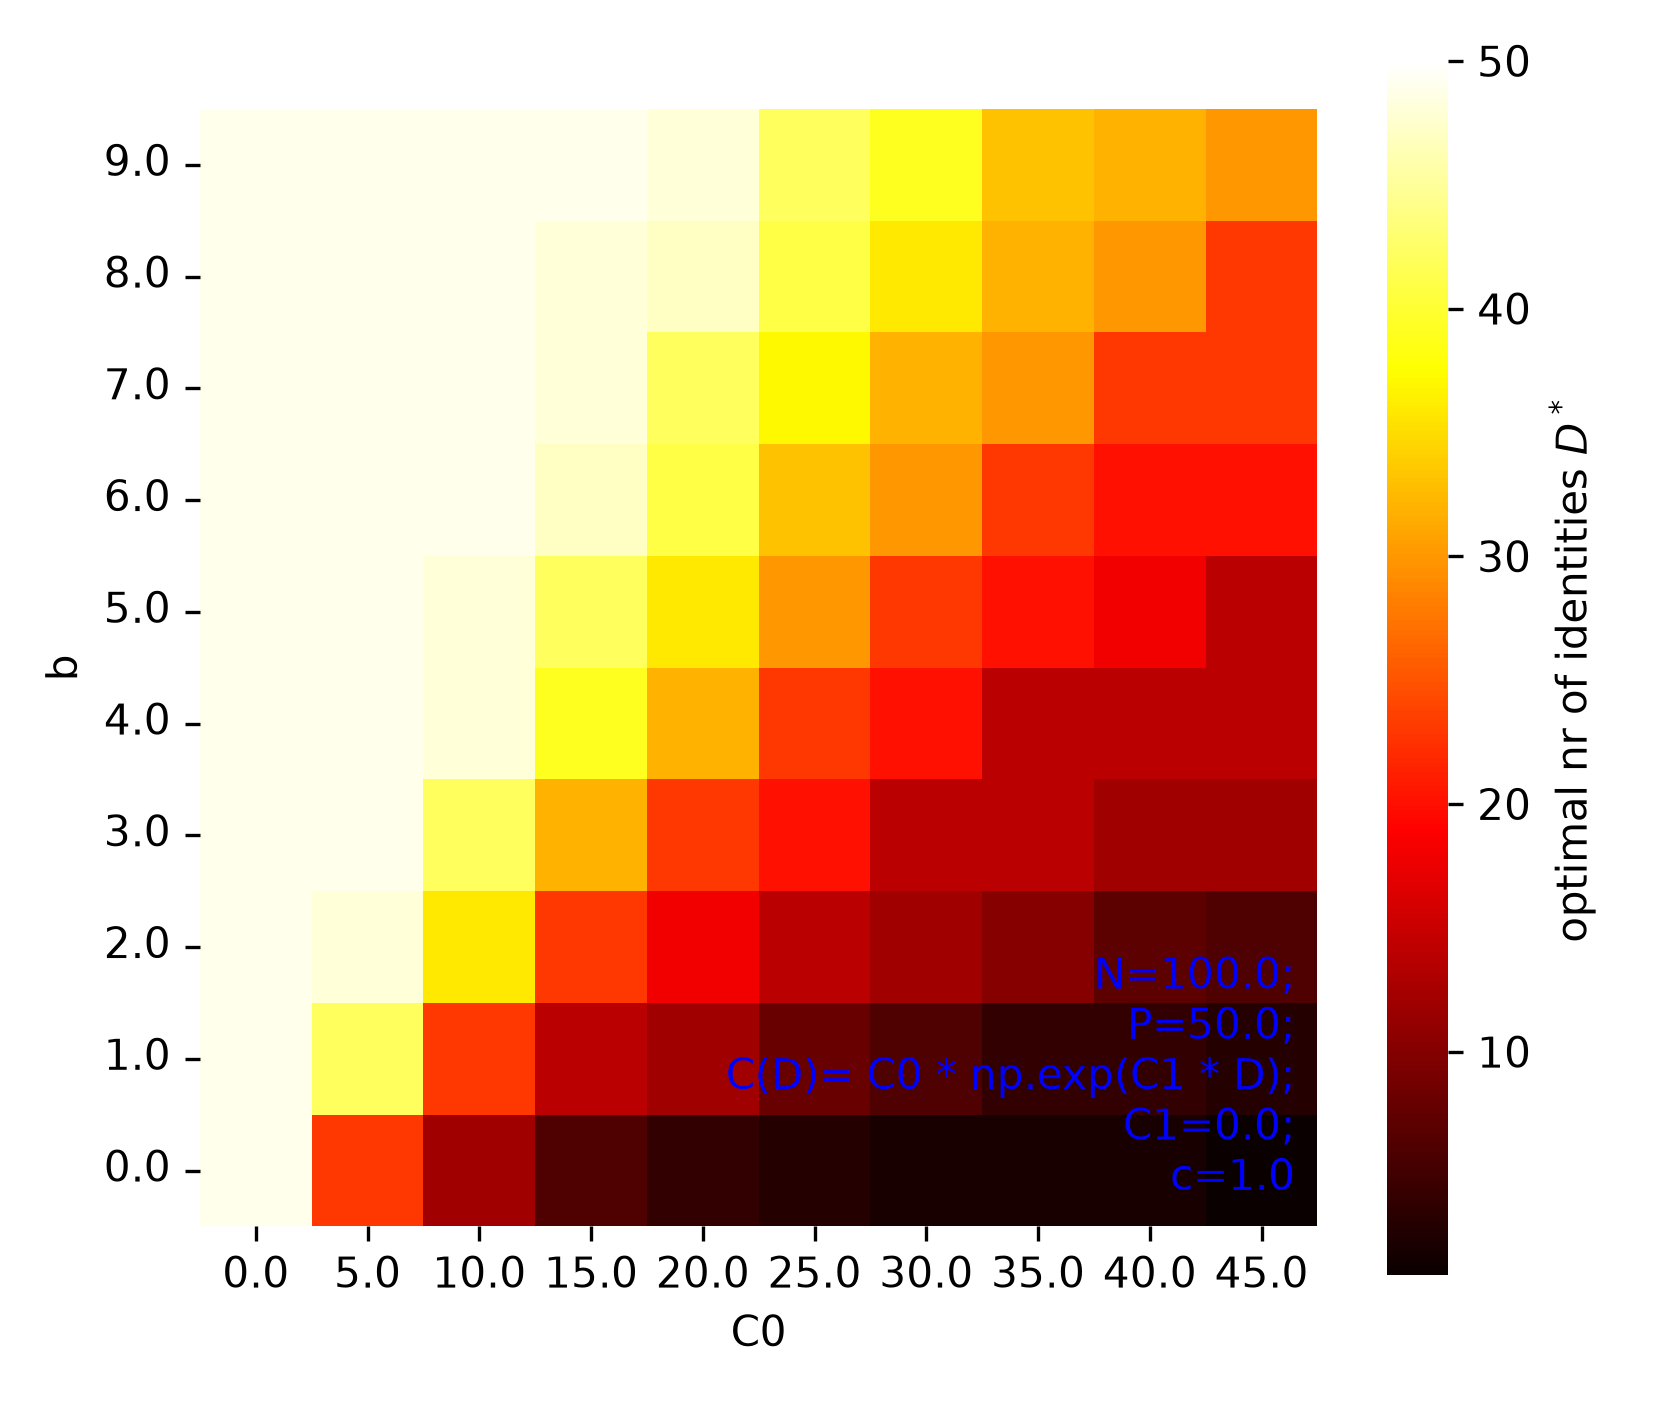
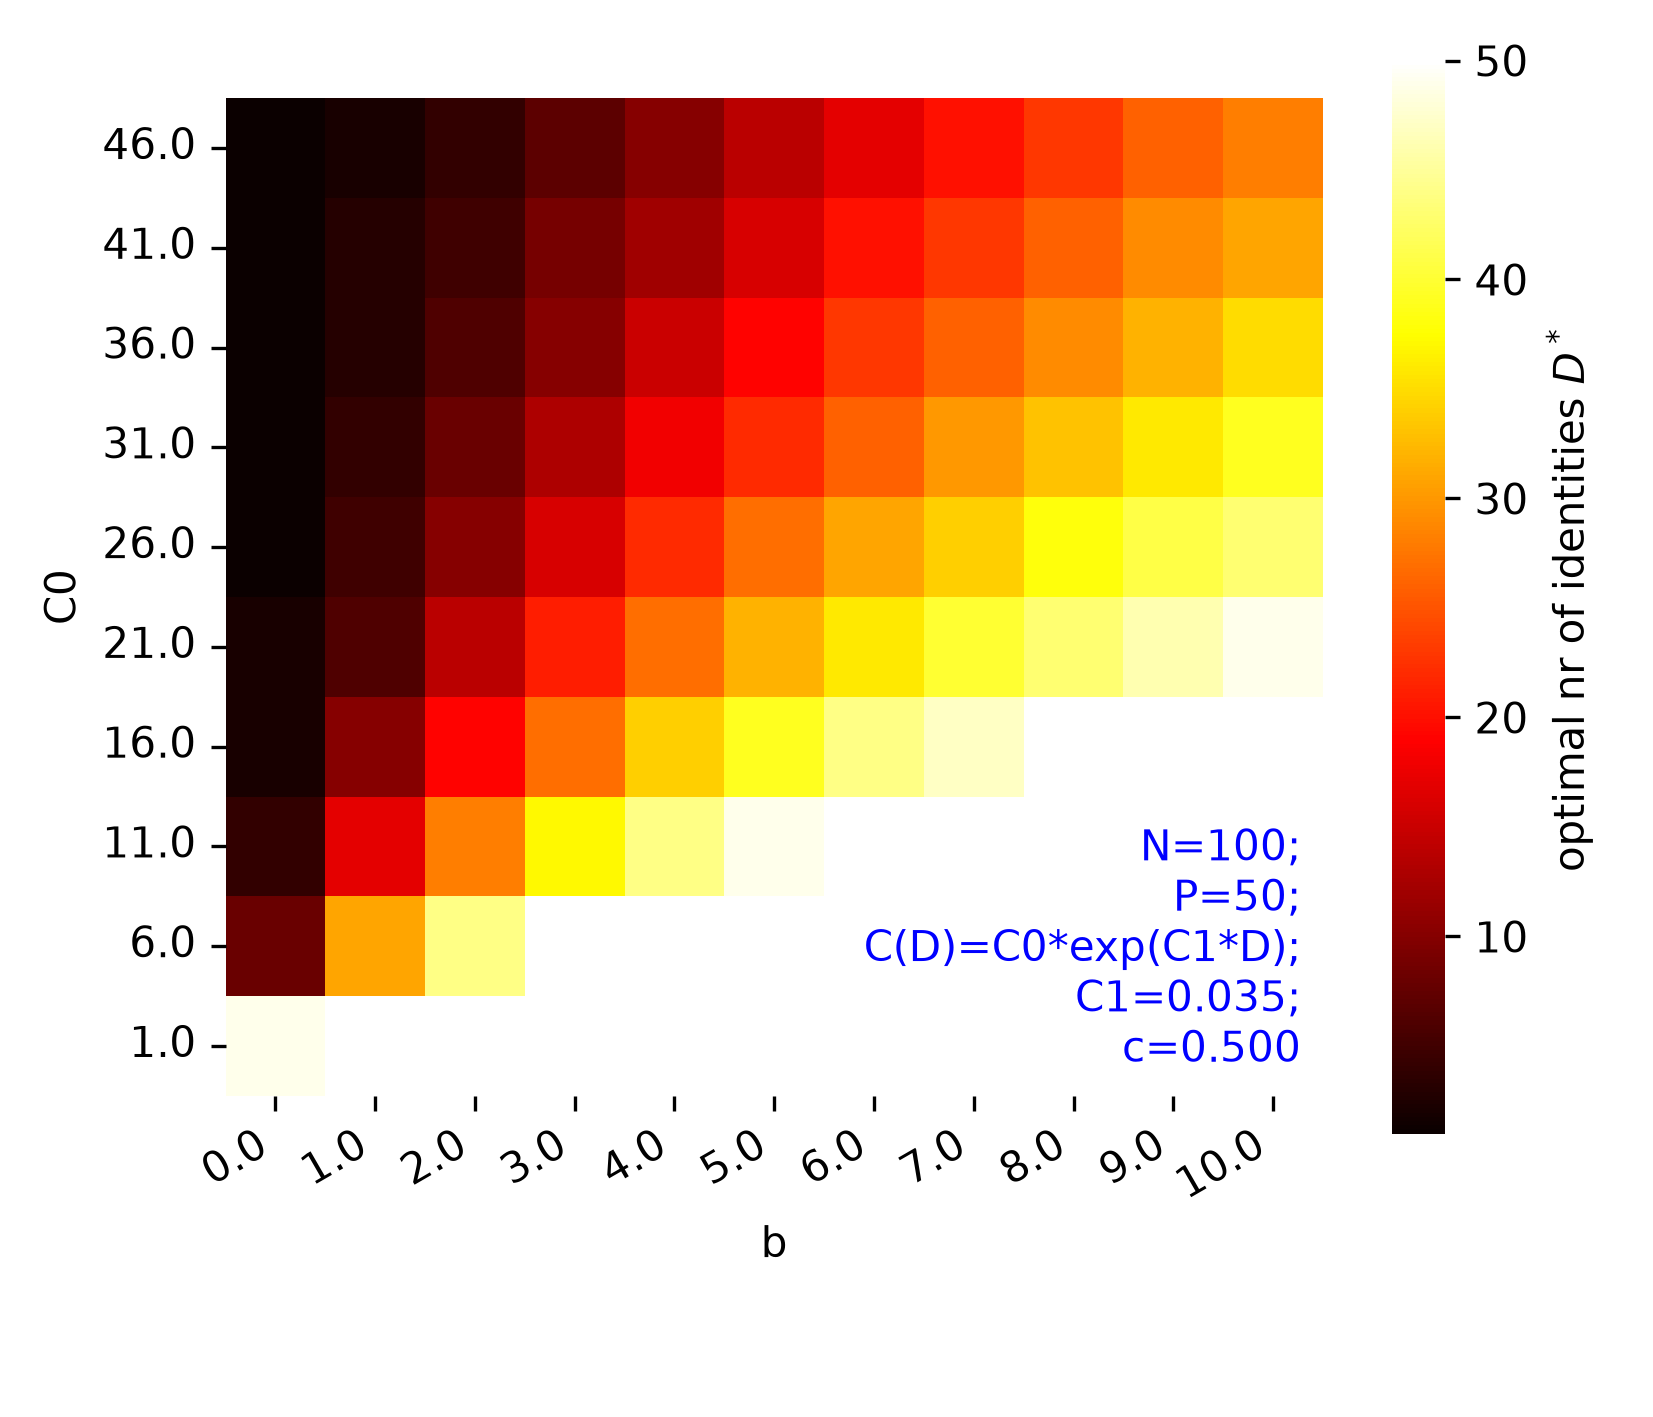
speeded up the model

diff --git a/modelfast.py b/modelfast.py
@@ -1,0 +1,250 @@
+#%%
+import os
+import numpy as np
+import pandas as pd
+import matplotlib.pyplot as plt
+import seaborn as sns
+import matplotlib as mpl
+
+#%%
+# ------------------------------------
+# -----   Simulation (vectorized) -----
+# ------------------------------------
+def make_solutions(seed, P, N):
+    """P x N array of 0/1; every row has exactly N/2 ones."""
+    assert N % 2 == 0
+    rng = np.random.default_rng(seed)
+    base = np.tile(np.repeat([0, 1], N // 2), (P, 1))
+    return rng.permuted(base, axis=1)
+
+def errors_for_all_D(seed, P, N):
+    """
+    Returns array e of length P, where e[D-1] = mean errors per agent, summed over
+    the P-D unsolved problems, when the first D problems serve as identities.
+    Independent of b, c and the storage cost, so it only needs simulating once per seed.
+    """
+    S = make_solutions(seed, P, N).astype(float)
+    # M[p, j] = number of agents on whom problem p and identity j disagree
+    M = N - 2 * (S @ S.T)
+    # best[p, d-1] = fewest errors on problem p using the best of identities 0..d-1
+    best = np.minimum.accumulate(M, axis=1)
+    # only problems p >= D count (problem p < D is an identity, solved perfectly)
+    rows = np.arange(P)[:, None]
+    cols = np.arange(P)[None, :]
+    mask = rows > cols                    # column index d-1 = D-1  ->  p >= D  <=>  p > D-1
+    return (best * mask).sum(axis=0) / N
+
+def sim_errors(n_runs, Ds, P, N):
+    """(n_runs, len(Ds)) array of mean errors per agent."""
+    Ds = np.asarray(Ds)
+    all_e = np.stack([errors_for_all_D(s, P, N) for s in range(n_runs)])
+    return all_e[:, Ds - 1]
+
+def run_grid(grid_b, grid_c, Ds, P, N, n_runs, costFunc, C0, C1, C_name):
+    """Utility = b*P - (b+c)*errors - C(D); the b,c grid is pure broadcasting."""
+    Ds = np.asarray(Ds)
+    err = sim_errors(n_runs, Ds, P, N)                      # runs x D
+    bb, cc, DD = np.meshgrid(grid_b, grid_c, Ds, indexing="ij")
+    e_mean = err.mean(0)[None, None, :]
+    e_std = err.std(0)[None, None, :]
+    u_mean = bb * P - (bb + cc) * e_mean - costFunc(DD, C0=C0, C1=C1)
+    u_std = (bb + cc) * e_std                               # std across runs
+    return pd.DataFrame({
+        "N": N, "P": P, "D": DD.ravel(), "c": cc.ravel(), "b": bb.ravel(),
+        "C0": C0, "C1": C1, "C(D)": C_name,
+        "u_mean": u_mean.ravel(), "u_std": u_std.ravel(),
+    })
+
+def run_grid_C0(grid_b, c, grid_C0, Ds, P, N, n_runs, costFunc, C1, C_name):
+    """Like run_grid, but the second axis is the cost parameter C1 and c is fixed."""
+    Ds = np.asarray(Ds)
+    err = sim_errors(n_runs, Ds, P, N)                       # runs x D
+    bb, c0, DD = np.meshgrid(grid_b, grid_C0, Ds, indexing="ij")
+    e_mean = err.mean(0)[None, None, :]
+    e_std = err.std(0)[None, None, :]
+    u_mean = bb * P - (bb + c) * e_mean - costFunc(DD, C0=c0, C1=C1)
+    u_std = (bb + c) * e_std
+    return pd.DataFrame({
+        "N": N, "P": P, "D": DD.ravel(), "c": c, "b": bb.ravel(),
+        "C0": c0.ravel(), "C1": C1, "C(D)": C_name,
+        "u_mean": u_mean.ravel(), "u_std": u_std.ravel(),
+    })
+
+def get_Dstar(df, params):
+    """Optimal D for every combination of `params` (any number). Ties -> smallest D."""
+    df = df.sort_values("D")
+    idx = df.groupby(params)["u_mean"].idxmax()
+    other = [p for p in ["N", "P", "C(D)", "C0", "C1", "b", "c"] if p not in params]
+    out = df.loc[idx, params + other + ["D", "u_mean"]]
+    return out.rename(columns={"D": "Dstar", "u_mean": "maxU"}).reset_index(drop=True)
+
+#%%
+# ------------------------------------
+# -----   Reference check (slow)  -----
+# ------------------------------------
+def play_one_round_ref(seed, D, P, N, b, c, costFunc, C0, C1):
+    """Your loop version (with the all-P fix), using the same solutions as the fast code."""
+    solutions = make_solutions(seed, P, N)
+    identities = solutions[:D]
+    best_ids = [np.argmin(np.abs(identities - solutions[p]).sum(axis=1)) for p in range(P)]
+    util = np.array([(solutions[p] == identities[best_ids[p]]) * b
+                     - (solutions[p] != identities[best_ids[p]]) * c for p in range(P)])
+    return util.sum(axis=0) - costFunc(D, C0=C0, C1=C1)
+
+def check(P=20, N=40, b=1.3, c=0.7, C0=1.0, seed=3):
+    costFunc = lambda D, C0, C1: C0 * D
+    for D in [1, 5, 20]:
+        slow = play_one_round_ref(seed, D, P, N, b, c, costFunc, C0, np.nan).mean()
+        e = errors_for_all_D(seed, P, N)[D - 1]
+        fast = b * P - (b + c) * e - costFunc(D, C0, np.nan)
+        assert np.isclose(slow, fast), (D, slow, fast)
+    print("fast and reference versions agree")
+
+#%%
+# ------------------------------------
+# -----   Plotting  -------------------
+# ------------------------------------
+ALL_PARAMS = ["N", "P", "C(D)", "C0", "C1", "b", "c"]
+
+def _select(df, p):
+    mask = np.ones(len(df), dtype=bool)
+    for k, v in p.items():
+        mask &= np.isclose(df[k].astype(float), v)
+    return df[mask]
+
+def _fmt(k, v):
+    return f"{k}={v}" if isinstance(v, str) else (f"{k}={v}" if not np.isnan(v) and int(v)==v else  f"{k}={v:.3f}")
+
+def plot_UoverD(df, df_Dstar, params, cmap="viridis", inset_loc=(0.60, 0.55, 0.36, 0.38)):
+    """
+    inset_loc: (x0, y0, width, height) in axes fractions. Move it if it covers curves,
+               e.g. (0.12, 0.08, 0.36, 0.38) for the lower left.
+    """
+    fig, ax = plt.subplots(1, 1, figsize=(16/2.54, 9/2.54))
+    other_params = [q for q in ALL_PARAMS if q not in params[0]]
+
+    # which parameter varies across the curves? (that one gets the colormap and the inset x-axis)
+    varying = [k for k in params[0] if len({p[k] for p in params}) > 1]
+    fixed = [k for k in params[0] if k not in varying]
+    key = varying[0]
+    vals = np.array([p[key] for p in params], dtype=float)
+
+    norm = mpl.colors.Normalize(vals.min(), vals.max())
+    cm = mpl.colormaps[cmap]
+    color_of = lambda v: cm(0.05 + 0.9 * norm(v))
+
+    # --- main plot ---
+    dstar = []
+    for p in params:
+        curr_df = _select(df, p)
+        assert len(curr_df) > 0 and curr_df["D"].is_unique
+        curr_opt = _select(df_Dstar, p)
+        col = color_of(p[key])
+        ax.plot(curr_df["D"], curr_df["u_mean"], color=col, lw=1, alpha=0.5)
+        ax.scatter(curr_opt["Dstar"], curr_opt["maxU"], marker="s", s=22,
+                   color=col, edgecolor="k", linewidth=0.6, zorder=3)
+        dstar.append(curr_opt["Dstar"].iloc[0])
+    dstar = np.array(dstar)
+
+    sm = mpl.cm.ScalarMappable(norm=norm,
+                               cmap=mpl.colors.ListedColormap(cm(np.linspace(0.05, 0.95, 256))))
+    fig.colorbar(sm, ax=ax, label=key, pad=0.02)
+
+    ax.set_xlabel("D")
+    ax.set_ylabel("mean utility")
+    ax.spines[["top", "right"]].set_visible(False)
+    ax.grid(alpha=0.25, lw=0.5)
+
+    first = curr_df.iloc[0]
+    txt = [f"{k}={params[0][k]:.1f}" for k in fixed] + [_fmt(k, first[k]) for k in other_params]
+    ax.text(0.02, 0.02, ";\n".join(txt), va="bottom", ha="left",
+            transform=ax.transAxes, color="0.3", fontsize=7)
+
+    # --- inset: D* over the varying parameter ---
+    axin = ax.inset_axes(list(inset_loc))
+    ax.add_patch(mpl.patches.FancyBboxPatch((inset_loc[0]-0.07, inset_loc[1]-0.12), inset_loc[2]+0.09, inset_loc[3]+0.17, boxstyle="round,pad=0,rounding_size=0.02", transform=ax.transAxes, fc="gainsboro", ec="0.7", alpha=0.7, zorder=2.5))
+    order = np.argsort(vals)
+    axin.plot(vals[order], dstar[order], color="0.6", lw=0.8, zorder=1)
+    axin.scatter(vals, dstar, c=[color_of(v) for v in vals], s=14,
+                 edgecolor="k", linewidth=0.4, zorder=2)
+    axin.set_xlabel(key, fontsize=6, labelpad=1)
+    axin.set_ylabel(r"$D^*$", fontsize=6, labelpad=1)
+    axin.tick_params(labelsize=6, length=2, pad=1)
+    axin.set_facecolor((1, 1, 1, 0.85))
+    axin.grid(alpha=0.25, lw=0.4)
+    axin.spines[["top", "right"]].set_visible(False)
+    return fig, ax
+
+def plot_heat(df, df_Dstar, params):
+    fig, ax = plt.subplots(1, 1, figsize=(14/2.54, 12/2.54))
+    other_params = [q for q in ALL_PARAMS if q not in params]
+    first = df.iloc[0]
+    sns.heatmap(df_Dstar.pivot_table(index=params[1], columns=params[0], values="Dstar"),
+                vmin=1, vmax=df["D"].max(), cmap="hot", cbar=True, ax=ax,
+                cbar_kws=dict(label=r"optimal nr of identities $D^*$"))
+    ax.set_xticklabels([f"{float(t.get_text()):.1f}" for t in ax.get_xticklabels()])
+    ax.set_yticklabels([f"{float(t.get_text()):.1f}" for t in ax.get_yticklabels()], rotation=0)
+    ax.invert_yaxis()
+    ax.text(0.98, 0.02, ";\n".join(_fmt(k, first[k]) for k in other_params),
+            va="bottom", ha="right", transform=ax.transAxes, color="blue")
+    ax.set_aspect("equal")
+    return fig, ax 
+#%%
+# ------------------------------------
+# -----   Run  ------------------------
+# ------------------------------------
+check()
+
+P, N = 50, 100
+C0, C1 = 1, np.nan
+costFunc = lambda D, C0, C1: C0 * D
+C_name = "C0 * D"
+
+grid = np.round(np.arange(0, 2.01, 0.1), 10)   # rounding keeps float comparisons safe
+Ds = np.arange(1, P + 1)                       # includes D = P
+df_linear = run_grid(grid, grid, Ds, P, N, n_runs=1000,
+                        costFunc=costFunc, C0=C0, C1=C1, C_name=C_name)
+df_Dstar_linear = get_Dstar(df_linear, ["b", "c"])
+
+#%%
+os.makedirs("figs", exist_ok=True)
+c = 1.0
+plot_UoverD(df_linear, df_Dstar_linear, [dict(b=b, c=c) for b in grid], inset_loc=(0.6,0.1,0.36,0.38))
+plt.tight_layout()
+plt.savefig(f"figs/example_linear_UoverDCurves_c{c}.png", dpi=300)
+
+plot_heat(df_linear, df_Dstar_linear, ["b", "c"])
+plt.tight_layout()
+plt.savefig("figs/linear_Dstar_overStoreCost_X_Benefit.png", dpi=300)
+
+#%%
+
+
+# ------------------------------------
+# -----   Run 2 vs C0; Convex vs Concave Storage Cost  -------
+# ------------------------------------
+P = 50
+N = 100
+c=0.5
+costFunc_exp = lambda D, C0, C1=0.035: C0 * np.exp(C1 * D)
+costFunc_log = lambda D, C0, C1=1: C0 * np.log2(C1 * D)
+for cfunc in["exp", "log"]:
+    C1 = 0.035 if cfunc == "exp" else 1
+    grid_b  = np.round(np.arange(0, 10.01, 1), 3)
+    grid_C0 = np.round(np.arange(1, 50, 5), 3)
+    Ds = np.arange(1, P + 1)
+    df_explog = run_grid_C0(grid_b, c, grid_C0, Ds, P, N, n_runs=1000,
+                        costFunc=costFunc_exp if cfunc=="exp" else costFunc_log, C1=C1, C_name=f"C0*{cfunc}(C1*D)")
+    df_Dstar_explog = get_Dstar(df_explog, ["b", "C0"])
+
+    C0plot = grid_C0[5]
+    plot_UoverD(df_explog, df_Dstar_explog, [dict(b=b, C0=C0plot) for b in grid_b], inset_loc=((0.6 if cfunc=="exp" else 0.4),0.1,0.36,0.38))
+    plt.tight_layout()
+    plt.savefig(f"figs/example_{cfunc}_UoverDCurves_C0{C0}.png", dpi=300)
+
+    fig, ax = plot_heat(df_explog, df_Dstar_explog, ["b", "C0"])
+    plt.tight_layout()
+    fig.autofmt_xdate(rotation=30)
+    plt.savefig(f"figs/{cfunc}_Dstar_overStoreCost_X_Benefit.png", dpi=300)
+
+#%%

diff --git a/model.py b/model.py
@@ -6,10 +6,11 @@
 #   - The individuals solve P problems, where N/2 individuals should do action 0, the other N/2 action 1
 #   - Making an error reduces utility by c. Doing the correct action increases utility by b 
 #   - Individuals store D identities. Storing reduces utility.
-#   - We assume that individuals solve the first D problems perfectly and store the corresponding action as an identity
-#   - The remaining P-D problems are solved as follows:
+#   - Individuals then solve the problems one by one:
 #       - The individuals agree on one identity dimension to sort themselves in action 0/action 1 individuals.
-#       - They choose the identity that minimises the collective error     
+#       - For the  first D problems this is exaclty the corresponding identity (these problems contribute with utility b per person)
+#       - For the Dth to Pth problem, they need to find some identity dimension that 
+#       - We assume that they choose the identity that minimises the collective error     
 #    - We track the average utilty dependent on the number of identities individuals store.
 
 
@@ -23,43 +24,49 @@ import seaborn as sns
 def play_one_round(seed, D, P, N, b, c, costFunc, C0, C1):
     assert(int(N/2) == N/2)
     np.random.seed(seed)
-    # first D solutions
-    identities = np.array([np.random.choice([0] * int(N/2) + [1] * int(N/2), size=N, replace=False) for d in range(D)])
-    # true solutions for P-D problems
-    problemsolutions = np.array([np.random.choice([0] * int(N/2) + [1] * int(N/2), size=N, replace=False) for p in range(D, P)])
+
+    # true solutions for D solutions
+    solutions = np.array([np.random.choice([0] * int(N/2) + [1] * int(N/2), size=N, replace=False) for p in range(P)])
+    
+    identities = solutions[:D,:]
+
     # best identity for each of the P-D problem (the one that minimises error rate)
-    best_ids = [np.argmin(np.abs(identities - problemsolutions[p]).sum(axis=1)) for p in range(P-D)]
+    best_ids = [np.argmin(np.abs(identities - solutions[p,:]).sum(axis=1)) for p in range(P)]
+    
     # utilities of the N agents for P-D problems (benefits for correct + costs for incorrect)
     utilities_problems = np.array([
         (
-            (problemsolutions[p] == identities[best_ids[p]]) * b - 
-            (problemsolutions[p] != identities[best_ids[p]]) * c         )
-        for p in range(P-D)
+            (solutions[p] == identities[best_ids[p]]) * b - 
+            (solutions[p] != identities[best_ids[p]]) * c         )
+        for p in range(P)
     ])
+
     # add utility benefit for D correct solutions (b * D for a single agent)
     # add utility cost for holding D identities (C(D) for a single agent)
-    utilities = utilities_problems.sum(axis=0) + b * D  -  costFunc(D, C0=C0, C1=C1)
+    utilities = utilities_problems.sum(axis=0) -  costFunc(D, C0=C0, C1=C1)
     return utilities
 
 def sim(n_runs, D, P, N, b, c, costFunc, C0, C1):
     utilities = []
     for s in range(n_runs):
         utilities.append(play_one_round(s, D, P, N, b, c, costFunc, C0, C1))
-    return utilities
+    return np.array(utilities)
 
 
 def get_Dstar(df, params):
-    res_Dstar = []
+    """return the optimal D to fix"""
+    results_Dstar = []
     other_params = [p for p in ["N","P","C(D)", "C0", "C1", "b", "c"] if p not in params]
     param_combis = df[params].value_counts().index.to_list()
     for param1, param2 in param_combis:
         curr_df = df.query(f"{params[0]}=={param1} and {params[1]}=={param2}")
+        # get max utility
         maxU = curr_df["u_mean"].max()
+        # get D for which we get max utility
         Dstar = curr_df.loc[curr_df["u_mean"]==maxU, "D"].values[0]
         other_params_values = [curr_df[c].unique()[0] for c in other_params]
-
-        res_Dstar.append([param1, param2]+other_params_values+[Dstar, maxU])
-    df_Dstar = pd.DataFrame(res_Dstar, columns=params+other_params+["Dstar", "maxU"] )
+        results_Dstar.append([param1, param2]+other_params_values+[Dstar, maxU])
+    df_Dstar = pd.DataFrame(results_Dstar, columns=params+other_params+["Dstar", "maxU"] )
     return df_Dstar
 
 
@@ -91,7 +98,7 @@ def plot_heat(df, df_Dstar, params, ):
     fig, ax = plt.subplots(1,1, figsize=(14/2.54, 12/2.54))
     other_params = [p for p in ["N","P","C(D)", "C0", "C1", "b", "c"] if p not in params]
     other_params_values = [df[c].unique()[0] for c in other_params]
-    sns.heatmap(df_Dstar.pivot_table(index=params[1], columns=params[0], values="Dstar"), vmin=1, vmax=P, cmap="hot", cbar=True, ax=ax, cbar_kws=dict(label=r"optimal nr of identities $D^*$"))
+    sns.heatmap(df_Dstar.pivot_table(index=params[1], columns=params[0], values="Dstar"), vmin=1, vmax=df["D"].max(), cmap="hot", cbar=True, ax=ax, cbar_kws=dict(label=r"optimal nr of identities $D^*$"))
     ax.set_xticklabels([f"{float(t.get_text()):.1f}" for t in ax.get_xticklabels()])
     ax.set_yticklabels([f"{float(t.get_text()):.1f}" for t in ax.get_yticklabels()], rotation=0)
     ax.set_ylim(ax.get_ylim()[1], ax.get_ylim()[0])
@@ -116,13 +123,13 @@ C_name = inspect.getsource(costFunc).split(":")[1].split("\n")[0]
 
 grid = np.arange(0,2.01,step=0.1)
 bc_combis = [(b,c) for b in grid for c in grid]
-n_runs = 1
+n_runs = 10
 res = []
 for b,c in bc_combis:
     if c==grid[0]: print(b)
-    for D in np.arange(1,P+1):
+    for D in np.arange(1,P+1,2):
         u = sim(n_runs, D, P, N, b, c, costFunc, C0, C1)
-        res.append([N, P, D, c, b, C0, C1, C_name, np.mean(u), np.std(u)])
+        res.append([N, P, D, c, b, C0, C1, C_name, np.mean(u, axis=(0,1)), np.std(np.mean(u, axis=0))])
 
 df_linear = pd.DataFrame(res, columns=["N", "P", "D", "c", "b", "C0", "C1", "C(D)", "u_mean","u_std"])
 df_Dstar_linear = get_Dstar(df_linear, ["b","c"])
@@ -159,7 +166,7 @@ for costFunc, C1 in zip([costFunc_exp, costFunc_log], [0.035, 1]):
     for b, C0 in bC0_combis:
         if C0==C0_grid[0]: print(b)
         C_name = inspect.getsource(costFunc).split(":")[1].split("\n")[0]
-        for D in np.arange(1,P):
+        for D in np.arange(1,P,2):
             u = sim(n_runs, D, P, N, b, c, costFunc, C0, C1)
             res.append([N, P, D, c, b, C0, C1, C_name, np.mean(u), np.std(u)])
 
